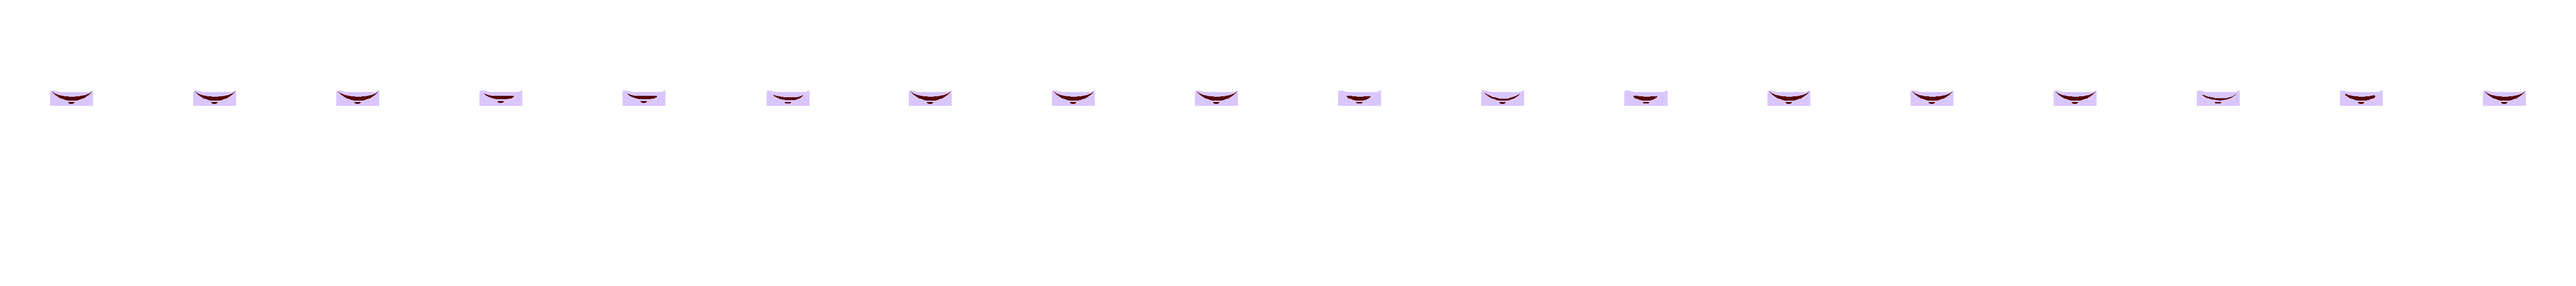
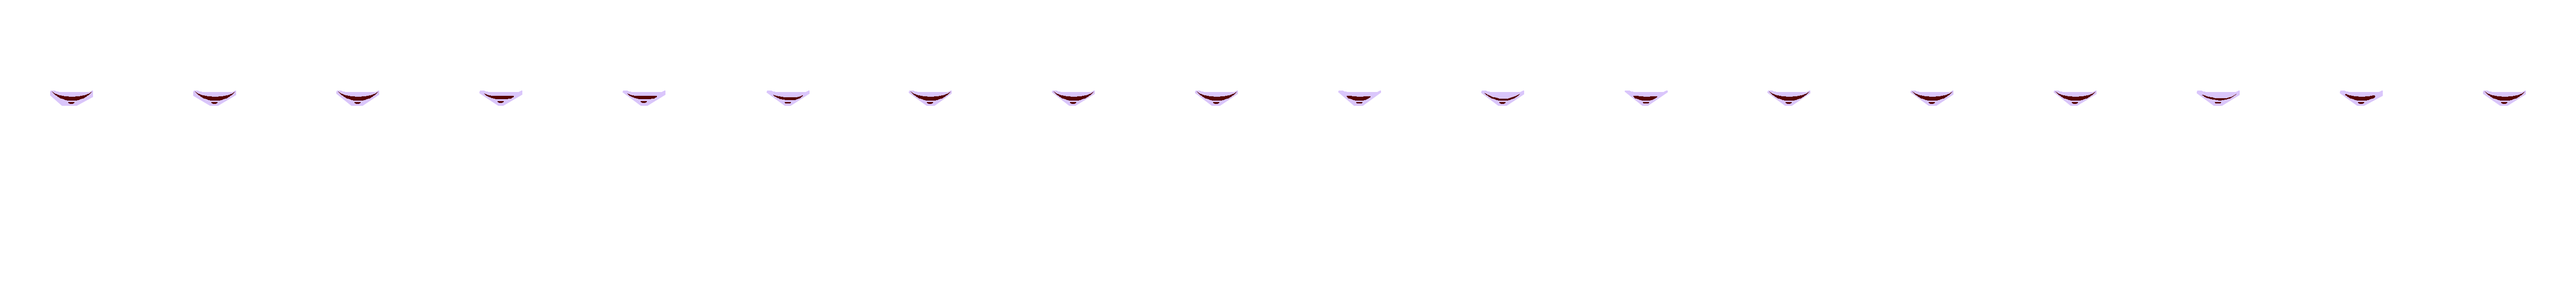
Julie's 'crazy' mouth movements are in the game.

diff --git a/js/DialogueSystem.js b/js/DialogueSystem.js
@@ -366,7 +366,7 @@ function Dialogue() {
                 this.setupAnimatedMouths(dialogueList, nameList, "Alex", false, alexMouthMove, 150, 300);
             } else if(nameList[this.page] == "Julie") {
                 if(speaker2ImgList[this.page] == julieMadPic) {
-                    this.setupAnimatedMouths(dialogueList, nameList, "Julie", false, julieMadMouthMove, 150, 300);
+                    this.setupAnimatedMouths(dialogueList, nameList, "Julie", false, julieMadMouthMove, 148, 307);
                 } else {
                     this.setupAnimatedMouths(dialogueList, nameList, "Julie", false, julieNormalMouthMove, 150, 300);
                 }
@@ -386,7 +386,7 @@ function Dialogue() {
                 this.setupAnimatedMouths(dialogueList, nameList, "Alex", false, alexMouthMove, 150, 300);
             } else if(nameList[this.page] == "Julie") {
                 if(speaker2ImgList[this.page] == julieMadPic) {
-                    this.setupAnimatedMouths(dialogueList, nameList, "Julie", false, julieMadMouthMove, 150, 300);
+                    this.setupAnimatedMouths(dialogueList, nameList, "Julie", false, julieMadMouthMove, 148, 307);
                 } else {
                     this.setupAnimatedMouths(dialogueList, nameList, "Julie", false, julieNormalMouthMove, 150, 300);
                 }
